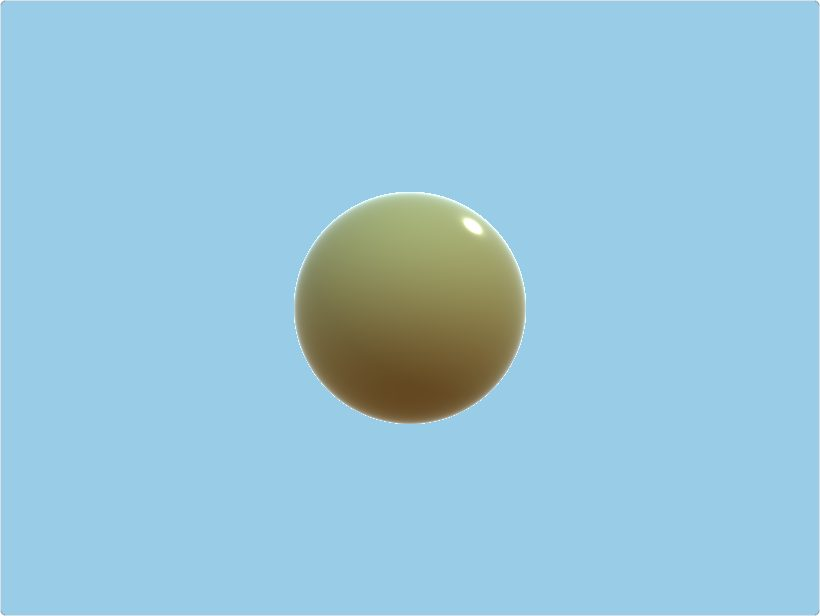
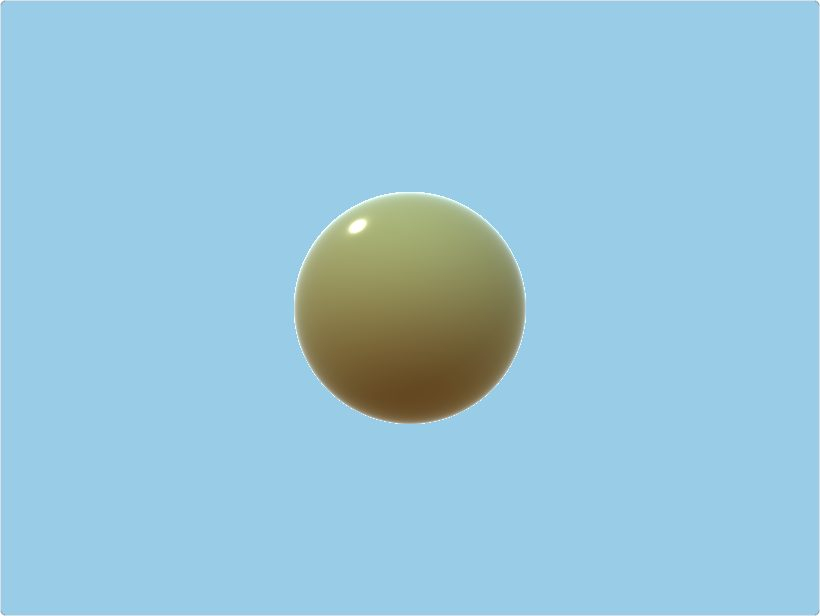
update webgl

Changed region(s): [[0.3659, 0.3393, 0.4573, 0.4935], [0.5488, 0.3393, 0.6098, 0.401], [0.6098, 0.401, 0.6402, 0.4935]]

diff --git a/demos/04-noise/main.ts b/demos/04-noise/main.ts
@@ -1,0 +1,96 @@
+import vertSource from './shader.vert?raw';
+import fragSource from './shader.frag?raw';
+
+const canvas = document.querySelector<HTMLCanvasElement>('#gl-canvas')
+if (!canvas) throw new Error('#gl-canvas 캔버스를 찾을 수 없습니다.');
+const gl  = canvas.getContext('webgl2')
+if (!gl) throw new Error('이 브라우저는 WebGL2를 지원하지 않습니다.');
+
+function resizeCanvas() {
+  const dpr = window.devicePixelRatio;
+  const width = Math.round(canvas!.clientWidth * dpr);
+  const height = Math.round(canvas!.clientWidth * 0.75 * dpr); // 4:3 비율
+  canvas!.width = width;
+  canvas!.height = height;
+  gl!.viewport(0, 0, width, height);
+}
+
+function compileShader(type: GLenum, source: string): WebGLShader {
+  const shader = gl!.createShader(type);
+  if (!shader) throw new Error('셰이더 객체 생성 실패');
+  gl!.shaderSource(shader, source);
+  gl!.compileShader(shader);
+  if (!gl!.getShaderParameter(shader, gl!.COMPILE_STATUS)) {
+    const log = gl!.getShaderInfoLog(shader);
+    gl!.deleteShader(shader);
+    throw new Error(`셰이더 컴파일 실패:\n${log}`);
+  }
+  return shader;
+}
+
+function createProgram(vertSrc: string, fragSrc: string): WebGLProgram {
+  const program = gl!.createProgram();
+  gl!.attachShader(program, compileShader(gl!.VERTEX_SHADER, vertSrc));
+  gl!.attachShader(program, compileShader(gl!.FRAGMENT_SHADER, fragSrc));
+  gl!.linkProgram(program);
+  if (!gl!.getProgramParameter(program, gl!.LINK_STATUS)) {
+    throw new Error(`프로그램 링크 실패:\n${gl!.getProgramInfoLog(program)}`);
+  }
+  return program;
+}
+
+const program = createProgram(vertSource, fragSource);
+
+const vertices = new Float32Array([
+  //  x     y   
+   -1.0,  1.0,
+   -1.0, -1.0,
+    1.0, -1.0,
+    1.0,  1.0
+]);
+const indices = new Uint16Array([
+  0, 1, 2, // 삼각형 1
+  0, 2, 3, // 삼각형 2
+]);
+
+const FLOAT_SIZE = 4; // float 1개 = 4바이트
+const STRIDE = 2 * FLOAT_SIZE; // 정점 하나의 바이트 크기
+const vao = gl.createVertexArray();
+gl.bindVertexArray(vao);
+
+const vbo = gl.createBuffer();
+gl.bindBuffer(gl.ARRAY_BUFFER, vbo);
+gl.bufferData(gl.ARRAY_BUFFER, vertices, gl.STATIC_DRAW);
+
+gl.enableVertexAttribArray(0);
+gl.vertexAttribPointer(0, 2, gl.FLOAT, false, STRIDE, 0);
+
+const ibo = gl.createBuffer();
+gl.bindBuffer(gl.ELEMENT_ARRAY_BUFFER, ibo);
+gl.bufferData(gl.ELEMENT_ARRAY_BUFFER, indices, gl.STATIC_DRAW);
+
+const iTimeLoc = gl.getUniformLocation(program, 'iTime');
+const iResolutionLoc = gl.getUniformLocation(program, 'iResolution');
+
+function render(timeMs: number) {
+  gl!.clearColor(0.08, 0.08, 0.1, 1.0);
+  gl!.clear(gl!.COLOR_BUFFER_BIT);
+  
+  gl!.useProgram(program);
+  gl!.uniform1f(iTimeLoc, timeMs * 0.001);
+  gl!.uniform2f(iResolutionLoc, canvas!.width, canvas!.height);
+
+  gl!.bindVertexArray(vao);
+  gl!.drawElements(gl!.TRIANGLES, 6, gl!.UNSIGNED_SHORT, 0);
+
+  requestAnimationFrame(render);
+}
+
+resizeCanvas();
+requestAnimationFrame(render);
+
+// 창 크기가 바뀌면 캔버스 해상도를 맞추고 다시 그린다.
+window.addEventListener('resize', () => {
+  resizeCanvas();
+  requestAnimationFrame(render);
+});

diff --git a/demos/04-noise/index.html b/demos/04-noise/index.html
@@ -1,0 +1,30 @@
+<!doctype html>
+<html lang="ko">
+  <head>
+    <meta charset="UTF-8" />
+    <meta name="viewport" content="width=device-width, initial-scale=1.0" />
+    <script>
+      (function () {
+        var t = localStorage.getItem('theme');
+        if (!t)
+          t = matchMedia('(prefers-color-scheme: light)').matches
+            ? 'light'
+            : 'dark';
+        document.documentElement.dataset.theme = t;
+      })();
+    </script>
+    <title>04. noise</title>
+    <link rel="stylesheet" href="/src/style.css" />
+  </head>
+  <body class="demo-page">
+    <main class="container">
+      <section>
+        <h2>04. noise</h2>
+        <canvas id="gl-canvas"></canvas>
+        <a class="back-link" href="../../">← 포트폴리오로 돌아가기</a>
+      </section>
+    </main>
+    <script type="module" src="./main.ts"></script>
+    <script type="module" src="/src/theme.ts"></script>
+  </body>
+</html>

diff --git a/index.html b/index.html
@@ -70,21 +70,28 @@
         <!-- 새 데모: public/demos/<이름>.jpg 썸네일을 넣고 카드를 추가한다 -->
         <div class="card-grid">
           <a class="project-card" href="demos/01-triangle/">
-            <img src="/demos/01-triangle.jpg" alt="삼각형 그리기 데모" loading="lazy" />
+            <img src="/demos/01-triangle.jpg" alt="삼각형 그리기" loading="lazy" />
             <div class="project-card__body">
               <h3>삼각형 그리기</h3>
               <p>WebGL2 기본 파이프라인</p>
             </div>
           </a>
           <a class="project-card" href="demos/02-sphere/">
-            <img src="/demos/02-sphere.jpg" alt="레이마칭 구 데모" loading="lazy" />
+            <img src="/demos/02-sphere.jpg" alt="레이마칭 구" loading="lazy" />
             <div class="project-card__body">
               <h3>레이마칭 구</h3>
               <p>SDF 레이마칭 · 거리 함수</p>
             </div>
           </a>
           <a class="project-card" href="demos/03-pbr/">
-            <img src="/demos/03-pbr.jpg" alt="PBR 렌더링 데모" loading="lazy" />
+            <img src="/demos/03-pbr.jpg" alt="PBR 렌더링" loading="lazy" />
+            <div class="project-card__body">
+              <h3>PBR 렌더링</h3>
+              <p>Cook-Torrance BRDF</p>
+            </div>
+          </a>
+          <a class="project-card" href="demos/04-noise/">
+            <img src="/demos/04-noise.jpg" alt="perlin noise" loading="lazy" />
             <div class="project-card__body">
               <h3>PBR 렌더링</h3>
               <p>Cook-Torrance BRDF</p>